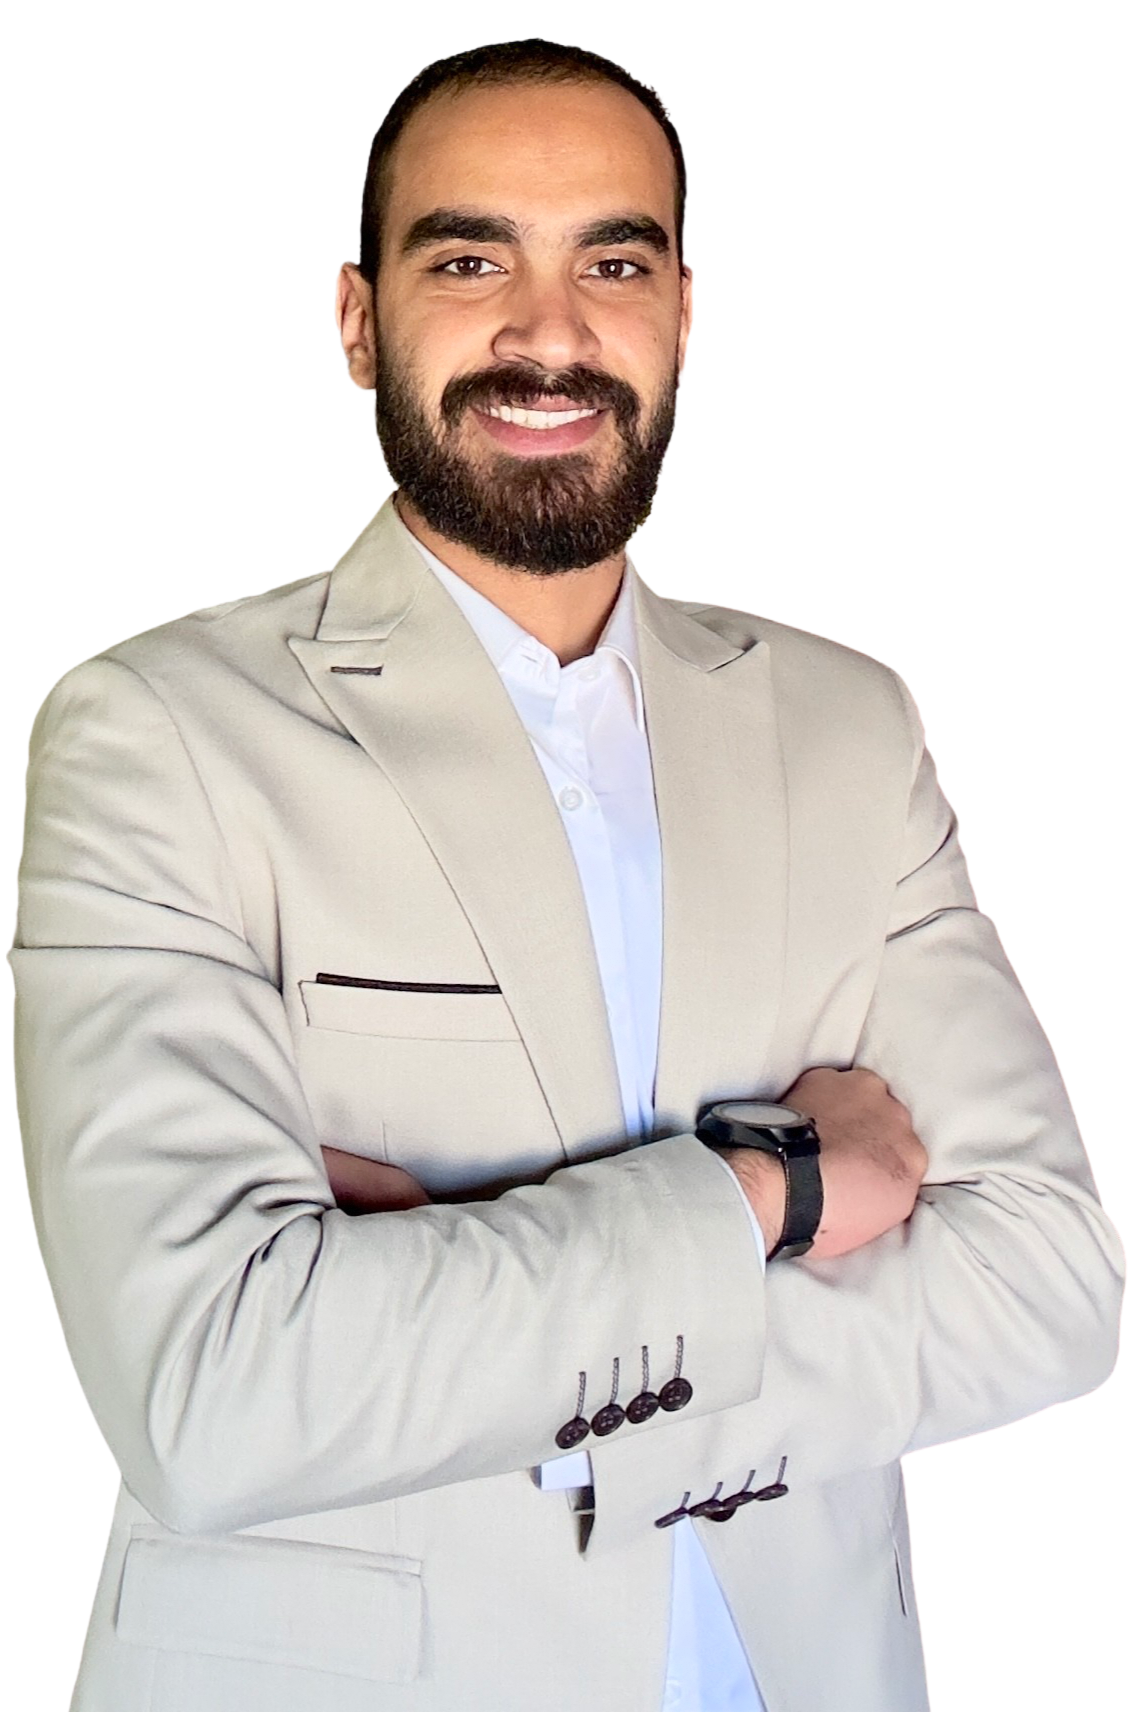
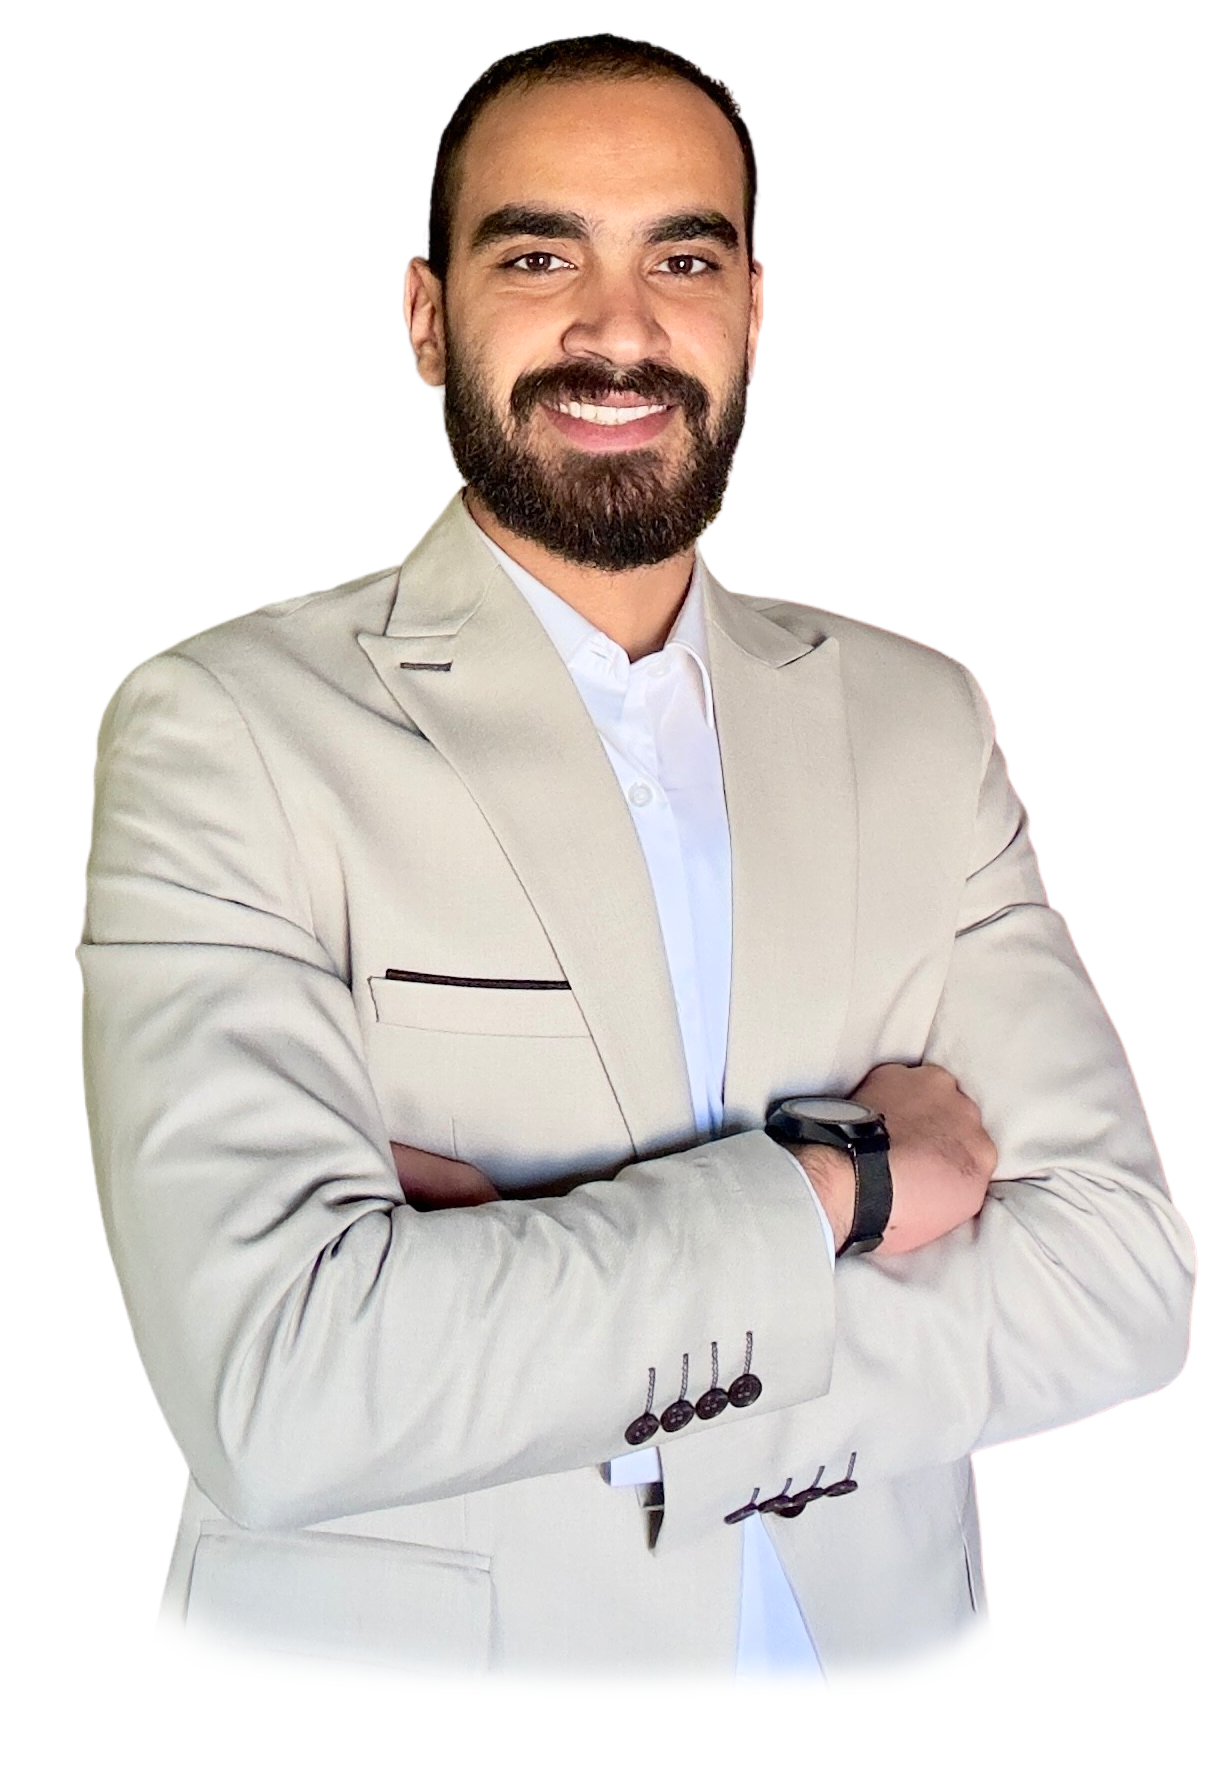
refactor: enhance image

Changed region(s): [[0.0, 0.0, 1.0, 1.0]]

diff --git a/src/pages/Index.vue b/src/pages/Index.vue
@@ -123,7 +123,7 @@
                             height="20px"
 							src="/avatar.png"
 							alt="avatar"
-							class="w-64 h-full mb-8 lg:mb-0 rounded-full"
+							class="w-64 h-full mb-8 lg:mb-0"
 						/>
 					</div>
 					<div class="bg-background-tertiary flex-1 text-lg sm:text-xl ml-6">
